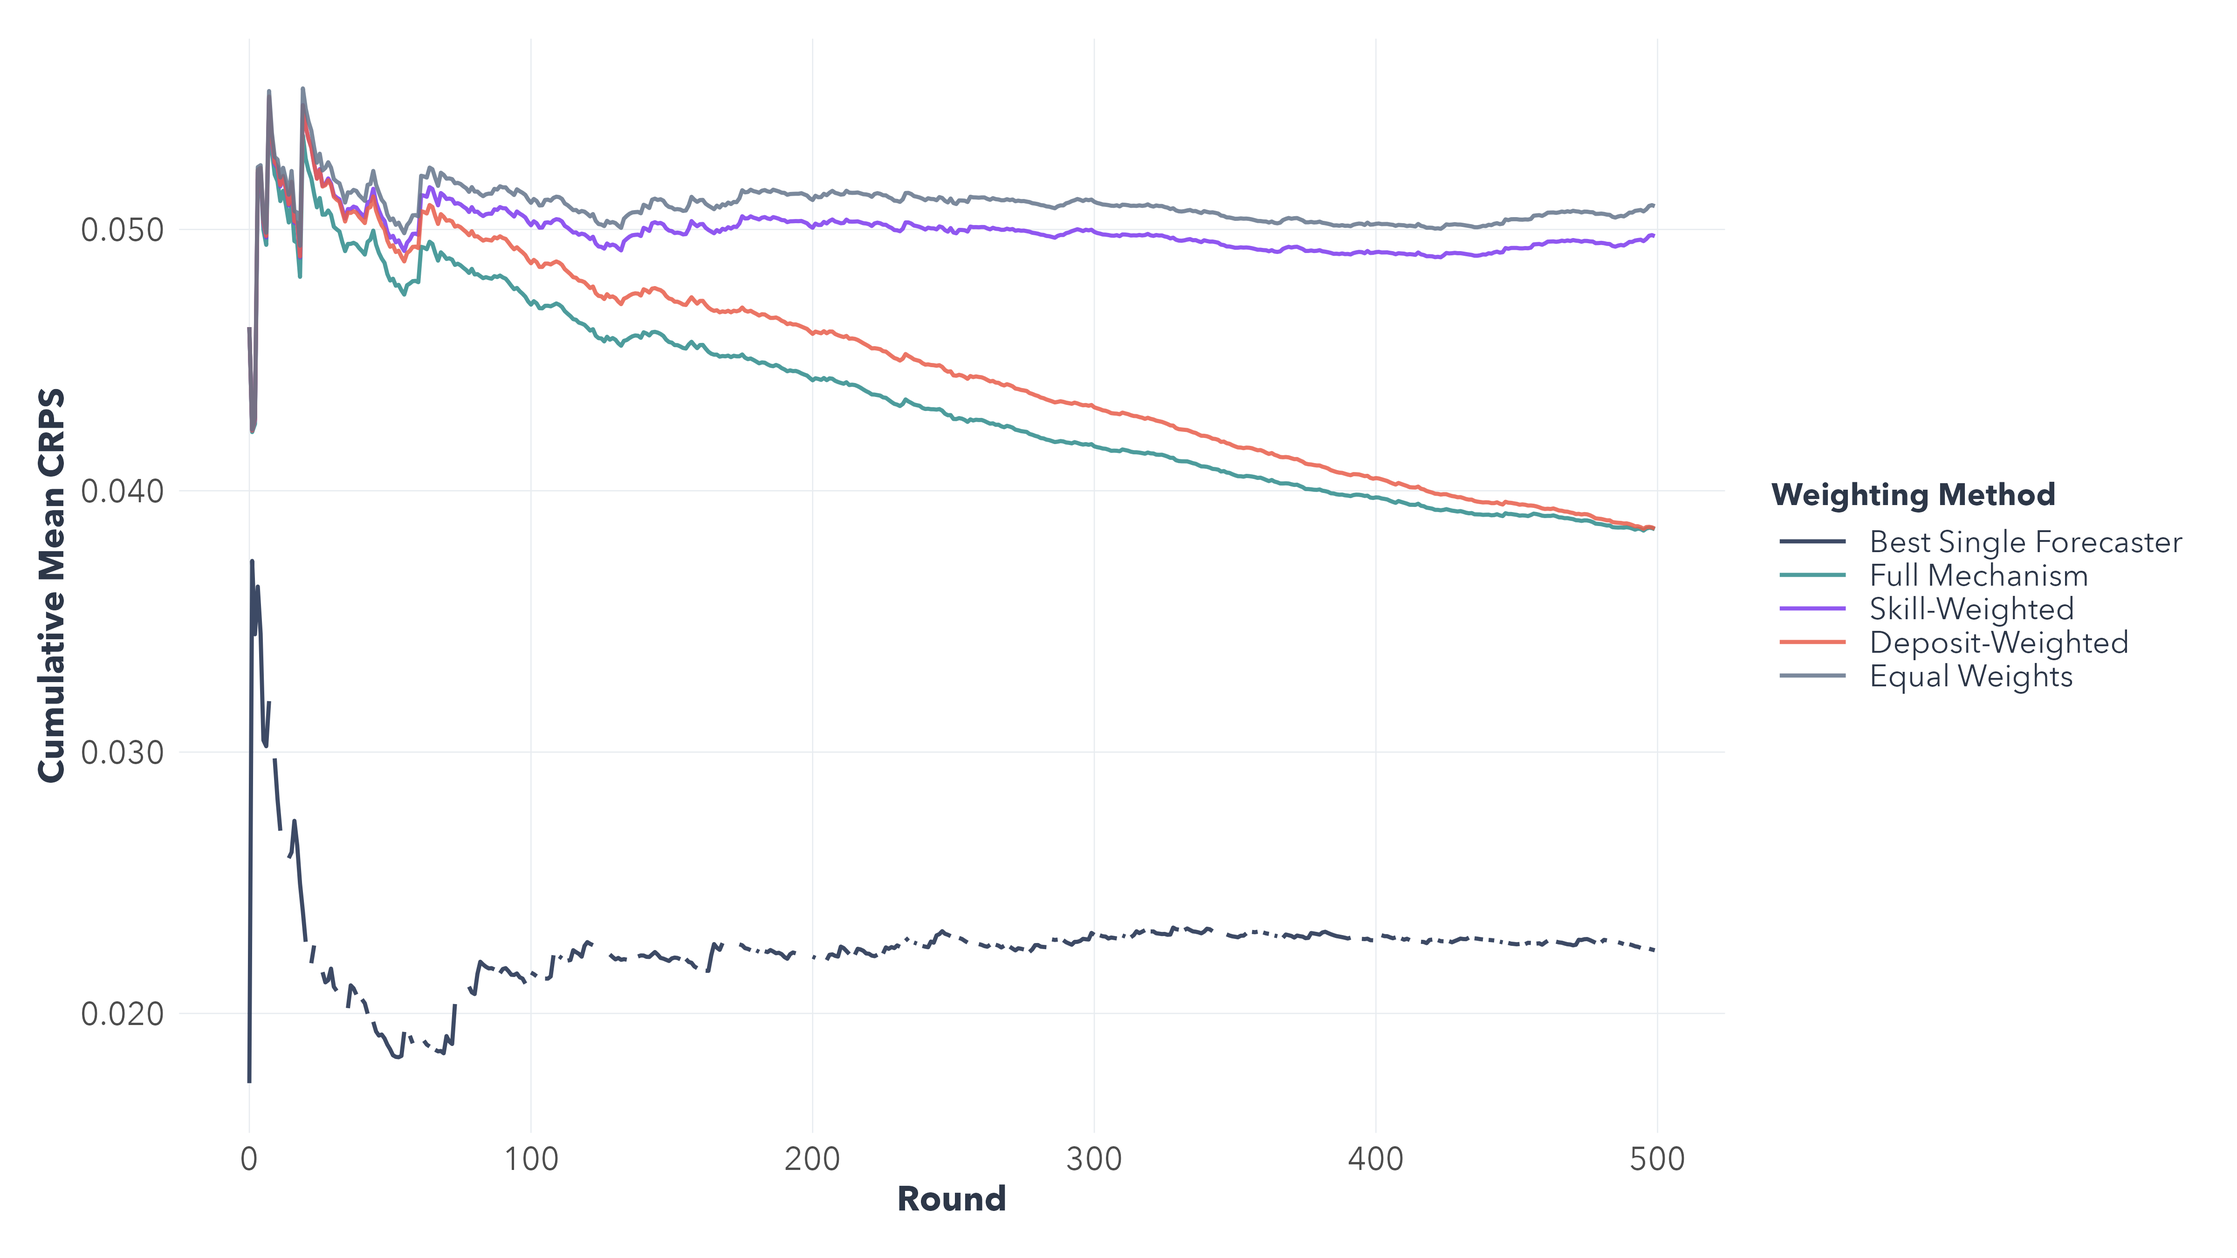
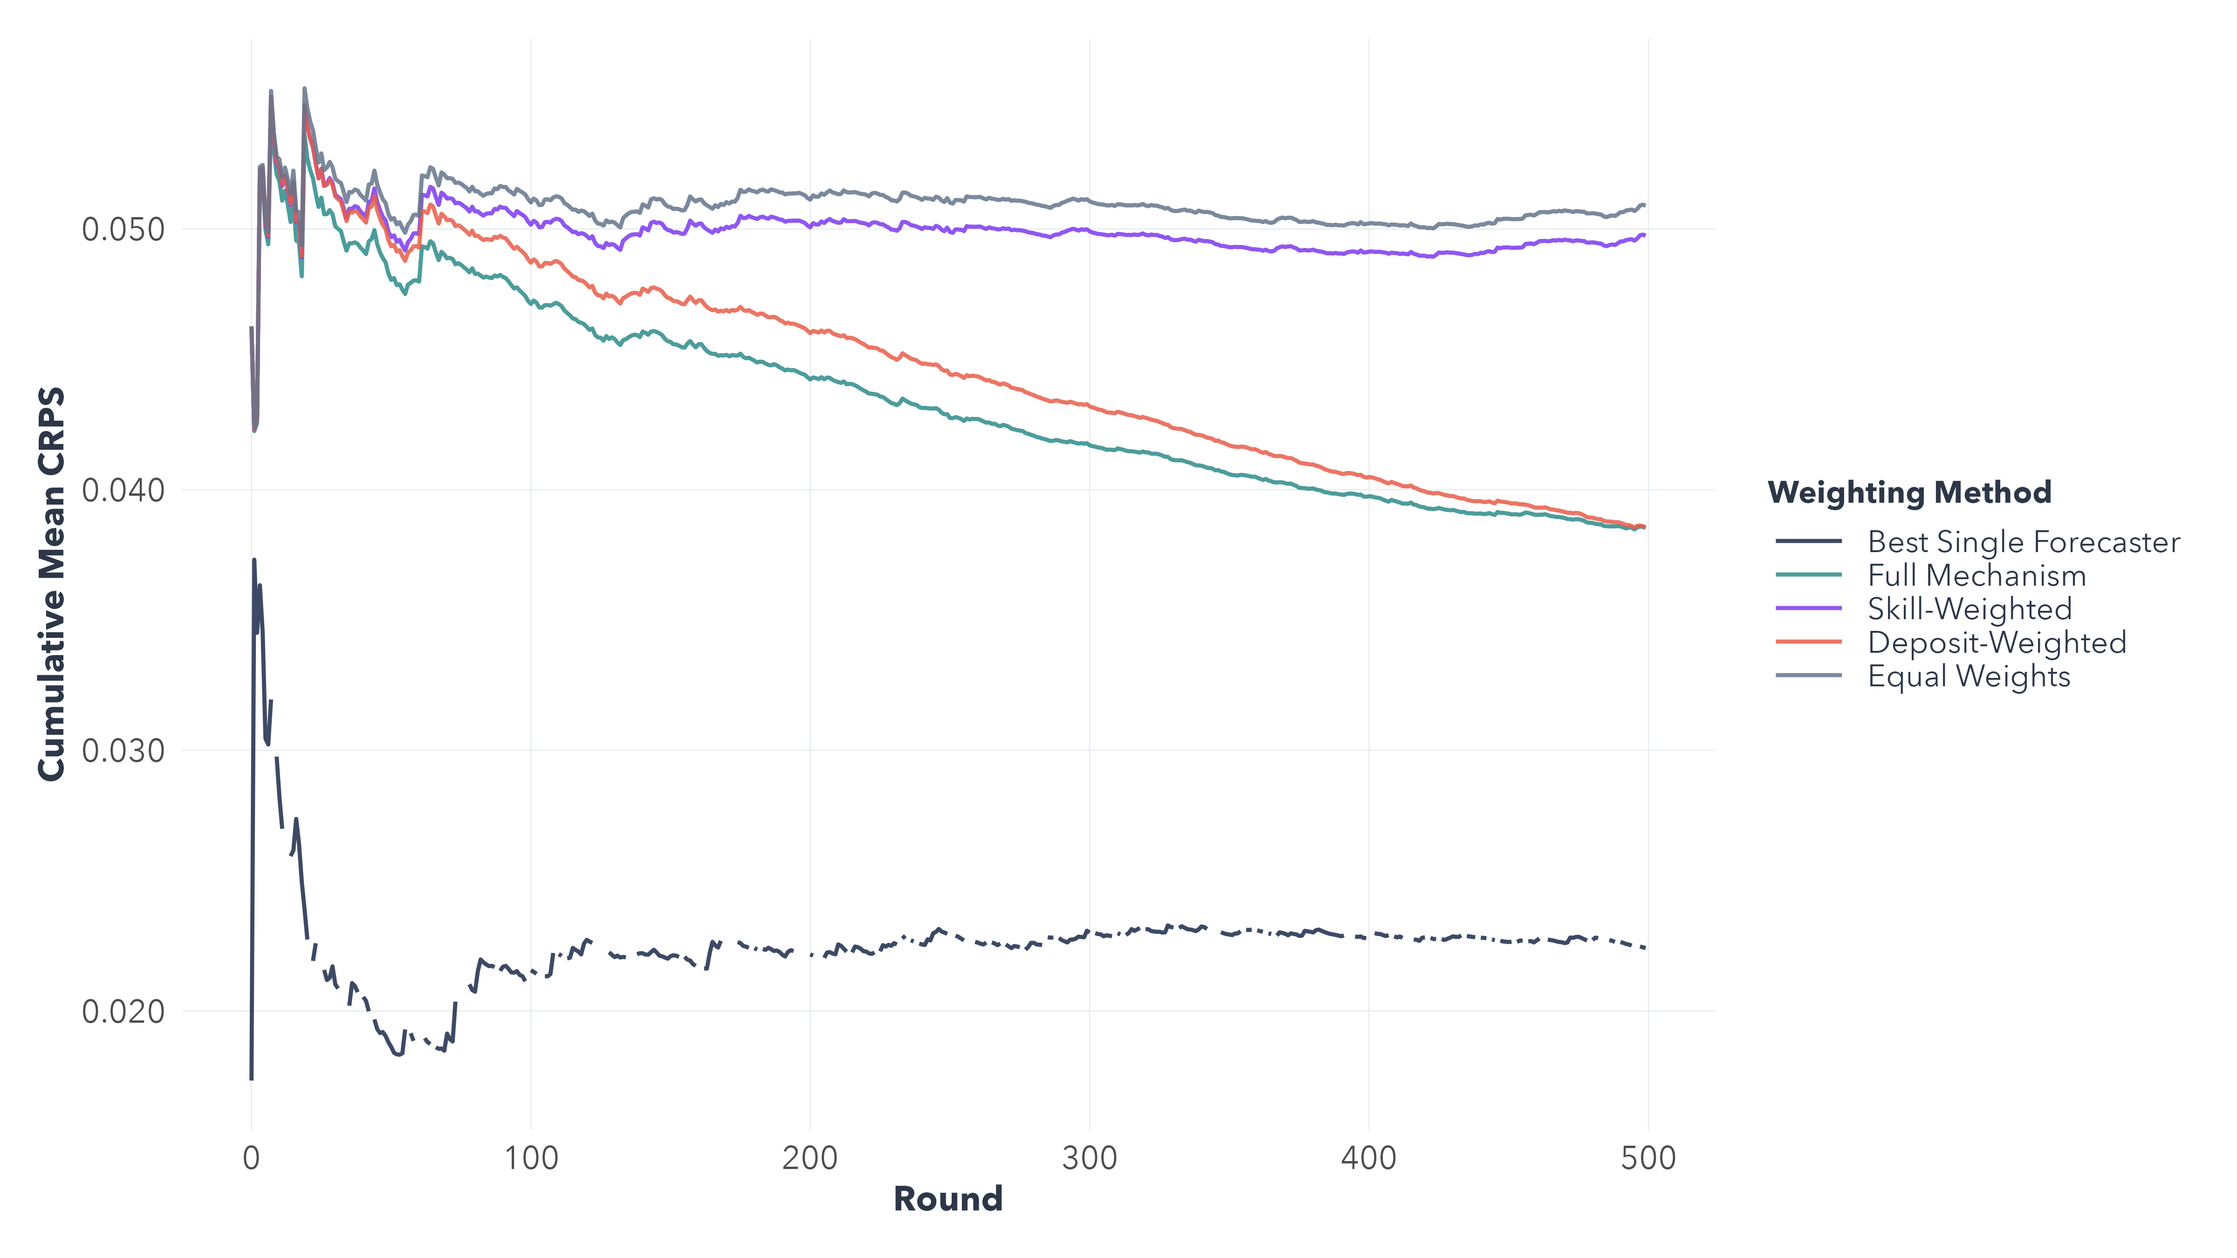
feat(presentation): slide fixes, larger plots, dashboard demo script
- Fix Models/Data slide number (9) and section alignment; remove orphan
  bullets from PresentationPage entries that only render components.
- Stop click-to-advance from capturing appendix interactions; accept
  standard slide props on AppendixSlide; align Q&A copy with project wording.
- Single source for main deck count (MAIN_DECK_SLIDE_COUNT); use in
  SlideShell, ContributionSlide, MechanismPipelineSlide, PresentationPage.
- Larger slide chart ticks (ContributionsChartSlide) and typography
  tokens; larger ggplot theme (theme_thesis) and regenerated PNGs.
- Dashboard readability: lab AXIS_TICK + tooltip, MetricCard labels,
  ForecastQualityChart and DeltaBarChart axis/label sizes.
- SCRIPT: add live dashboard Demo section after closing; appendix Q1 wording.

Made-with: Cursor

diff --git a/dashboard/src/pages/PresentationPage.tsx b/dashboard/src/pages/PresentationPage.tsx
@@ -1,6 +1,6 @@
 import { useState, useEffect, useCallback } from 'react';
 import PasswordGate from '@/components/slides/PasswordGate';
-import { PALETTE, TYPOGRAPHY, DARK_GRADIENT, getSectionForSlide, SECTION_BAR_HEIGHT } from '@/components/slides/shared/presentationConstants';
+import { PALETTE, TYPOGRAPHY, DARK_GRADIENT, getSectionForSlide, SECTION_BAR_HEIGHT, MAIN_DECK_SLIDE_COUNT } from '@/components/slides/shared/presentationConstants';
 import { formatBulletText } from '@/components/slides/shared/formatBulletText';
 import TheoryFlowSlide from '@/components/slides/TheoryFlowSlide';
 import MarketFlowSlide from '@/components/slides/MarketFlowSlide';
@@ -27,7 +27,7 @@ import TitleSlide from '@/components/slides/TitleSlide';
 
 const C = PALETTE;
 const FONT_FAMILY = TYPOGRAPHY.fontFamily;
-const TOTAL_SLIDES = 16;
+const TOTAL_SLIDES = MAIN_DECK_SLIDE_COUNT;
 const BASE = import.meta.env.BASE_URL;
 
 /* ─── Slide data ─────────────────────────────────────────────── */
@@ -138,10 +138,6 @@ const SLIDES: SlideData[] = [
     id: 'mechanism',
     type: 'content',
     title: 'Mechanism: Round-by-Round',
-    bullets: [
-      '▸ Core pipeline: submit → skill gate → aggregate → settle → update',
-      '▸ Same effective wager controls weight and exposure',
-    ],
     component: MechanismPipelineSlide,
     slideNumber: 7,
   },
@@ -182,15 +178,6 @@ const SLIDES: SlideData[] = [
     id: 'guarantees',
     type: 'content',
     title: 'Mechanism Guarantees',
-    bullets: [
-      '▸ The mechanism satisfies formal guarantees to machine precision',
-      '▸ Budget balance: gap < 10⁻¹³ — self-financed to numerical tolerance',
-      '▸ Mean profit ≈ 0 — pure redistribution, no subsidy or tax',
-      '▸ Sybil invariance: identical reports yield identical total profit',
-      '▸ Noise-skill correlation: r = −0.98 — higher noise maps to lower skill',
-      '',
-      '→ These are not approximate claims — verified to machine precision',
-    ],
     component: CorrectnessSlide,
     slideNumber: 11,
   },
@@ -207,18 +194,10 @@ const SLIDES: SlideData[] = [
     id: 'real-data',
     type: 'content',
     title: 'Real Data: Elia Wind + Electricity',
-    bullets: [
-      '▸ Elia wind: 44% CRPS reduction relative to equal weights',
-      '▸ Naive ranks highest — wind is strongly autocorrelated',
-      '▸ ML models (ARIMA, XGBoost, MLP) lag — over-spread quantiles',
-      '▸ Electricity: ~8% reduction (forecasters more similar)',
-      '',
-      '→ Conditional improvement — gains scale with forecaster heterogeneity',
-    ],
     component: ContributionsChartSlide,
     slideNumber: 13,
   },
-  /* 14 — Head-to-Head vs Raja & Vitali */
+  /* 14 — Benchmark comparison vs prior work */
   {
     id: 'baseline-comparison',
     type: 'content',
@@ -535,7 +514,20 @@ function SectionSlideView({ slide }: { slide: SlideData }) {
 function ContentSlideView({ slide }: { slide: SlideData }) {
   if (slide.component) {
     const Comp = slide.component;
-    return <Comp slide={slide} palette={PALETTE} fontFamily={FONT_FAMILY} />;
+    const inner = <Comp slide={slide} palette={PALETTE} fontFamily={FONT_FAMILY} />;
+    /* Appendix is interactive (scroll, tabs); stop click-to-advance from swallowing it */
+    if (slide.id === 'appendix') {
+      return (
+        <div
+          style={{ width: '100%', height: '100%', position: 'relative' }}
+          onClick={(e) => e.stopPropagation()}
+          onPointerDown={(e) => e.stopPropagation()}
+        >
+          {inner}
+        </div>
+      );
+    }
+    return inner;
   }
   return (
     <div

diff --git a/dashboard/src/components/slides/AppendixSlide.tsx b/dashboard/src/components/slides/AppendixSlide.tsx
@@ -14,13 +14,13 @@ const QA_ITEMS: QAItem[] = [
     question:
       "Why not just use Vitali & Pinson's approach? It has lower CRPS.",
     answer:
-      "Vitali's OGD achieves lower CRPS (−65 % wind) but uses Shapley settlement (not self-financed) and relative weights on a simplex. Our mechanism preserves Lambert's 7 formal properties including budget balance and sybilproofness, and uses absolute skill signals. The trade-off is quantified: we pay ~21 pp in CRPS for self-financing + absolute skill.",
+      "Vitali & Pinson's OGD achieves lower CRPS (−65 % wind) but uses Shapley settlement (not self-financed) and relative weights on a simplex. This project's mechanism preserves Lambert's seven formal properties, including budget balance and sybilproofness, and uses absolute skill signals. The trade-off is quantified: roughly 21 percentage points of CRPS on wind relative to OGD, in exchange for self-financing and absolute skill.",
   },
   {
     question:
       'Why does the best single forecaster (Naive) still beat the aggregate?',
     answer:
-      'Wind power is highly autocorrelated, making Naive persistence exceptionally strong. The mechanism improves the aggregate substantially (−44 % vs equal weights) but the ceiling is set by the best individual. This is a known limitation of linear opinion pools — future work could explore nonlinear combination methods.',
+      'Wind power is highly autocorrelated, making Naive persistence exceptionally strong. The mechanism improves the aggregate substantially (−44 % relative to equal weights) but the ceiling is set by the best individual. This is a known limitation of linear opinion pools — future work could explore nonlinear combination methods.',
   },
   {
     question:
@@ -199,8 +199,13 @@ function TabButton({
 /**
  * Appendix slide — backup material for Q&A.
  * No slide number, no section bar. Uses SlideShell without slideNumber.
+ * Props are passed by PresentationPage for consistency with other slides; content is static.
  */
-export default function AppendixSlide() {
+export default function AppendixSlide(_props: {
+  slide?: unknown;
+  palette?: unknown;
+  fontFamily?: string;
+}) {
   const [tab, setTab] = useState<AppendixTab>('qa');
 
   return (

diff --git a/dashboard/src/components/charts/ForecastQualityChart.tsx b/dashboard/src/components/charts/ForecastQualityChart.tsx
@@ -61,18 +61,18 @@ export default function ForecastQualityChart({ data }: Props) {
           <CartesianGrid strokeDasharray="3 3" stroke="#e2e8f0" />
           <XAxis
             dataKey="t"
-            tick={{ fontSize: 12 }}
+            tick={{ fontSize: 14 }}
             stroke="#94a3b8"
             domain={[zoom.state.left, zoom.state.right]}
-            label={{ value: 'Round', position: 'insideBottom', offset: -2, fontSize: 12 }}
+            label={{ value: 'Round', position: 'insideBottom', offset: -2, fontSize: 14 }}
           />
-          <YAxis tick={{ fontSize: 12 }} stroke="#94a3b8" label={{ value: 'CRPS', angle: -90, position: 'insideLeft', fontSize: 11, fill: '#64748b' }} />
+          <YAxis tick={{ fontSize: 14 }} stroke="#94a3b8" label={{ value: 'CRPS', angle: -90, position: 'insideLeft', fontSize: 13, fill: '#64748b' }} />
           <Tooltip
-            contentStyle={{ fontSize: 12, borderRadius: 8, border: '1px solid #e2e8f0' }}
+            contentStyle={{ fontSize: 13, borderRadius: 8, border: '1px solid #e2e8f0' }}
             formatter={(value: unknown, name: unknown) => [typeof value === 'number' ? value.toFixed(5) : String(value ?? ''), metricLabel(String(name ?? ''))]}
           />
           <Legend
-            wrapperStyle={{ fontSize: 11, cursor: 'pointer' }}
+            wrapperStyle={{ fontSize: 13, cursor: 'pointer' }}
             formatter={(v: string) => metricLabel(v)}
             onClick={(e) => {
               if (e?.dataKey) toggleSeries(String(e.dataKey));

diff --git a/dashboard/src/components/slides/MechanismPipelineSlide.tsx b/dashboard/src/components/slides/MechanismPipelineSlide.tsx
@@ -1,6 +1,6 @@
 import katex from 'katex';
 import 'katex/dist/katex.min.css';
-import { PALETTE, TYPOGRAPHY, getSectionForSlide, SECTION_BAR_HEIGHT } from './shared/presentationConstants';
+import { PALETTE, TYPOGRAPHY, getSectionForSlide, SECTION_BAR_HEIGHT, MAIN_DECK_SLIDE_COUNT } from './shared/presentationConstants';
 
 /**
  * Slide 7: Mechanism Round-by-Round — horizontal pipeline with
@@ -195,7 +195,9 @@ export default function MechanismPipelineSlide() {
       {/* Section bar */}
       <div style={{ position: 'absolute', top: 0, left: 0, right: 0, height: SECTION_BAR_HEIGHT, background: section.colour }} />
       {/* Slide number */}
-      <div style={{ position: 'absolute', top: 16, right: 24, fontSize: '0.8rem', color: PALETTE.slate }}>7 / 16</div>
+      <div style={{ position: 'absolute', top: 16, right: 24, fontSize: '0.8rem', color: PALETTE.slate }}>
+        {`7 / ${MAIN_DECK_SLIDE_COUNT}`}
+      </div>
 
       {/* Title */}
       <div style={{ flexShrink: 0, marginBottom: 20 }}>
@@ -205,7 +207,7 @@ export default function MechanismPipelineSlide() {
         <h2 style={{ fontSize: '3.2rem', fontWeight: 700, color: PALETTE.navy, lineHeight: 1.15, margin: 0 }}>
           Mechanism: Round-by-Round
         </h2>
-        <div style={{ width: 60, height: 4, background: PALETTE.teal, borderRadius: 2, marginTop: 14 }} />
+        <div style={{ width: 64, height: 3, background: PALETTE.teal, borderRadius: 2, marginTop: 12, opacity: 0.9 }} />
       </div>
 
       {/* Steps */}

diff --git a/dashboard/src/components/slides/ContributionSlide.tsx b/dashboard/src/components/slides/ContributionSlide.tsx
@@ -1,6 +1,6 @@
 import katex from 'katex';
 import 'katex/dist/katex.min.css';
-import { PALETTE, TYPOGRAPHY, DARK_GRADIENT, getSectionForSlide, SECTION_BAR_HEIGHT } from './shared/presentationConstants';
+import { PALETTE, TYPOGRAPHY, DARK_GRADIENT, getSectionForSlide, SECTION_BAR_HEIGHT, MAIN_DECK_SLIDE_COUNT } from './shared/presentationConstants';
 
 /**
  * Slide 6: My Contribution — dark background with KaTeX equation
@@ -35,7 +35,9 @@ export default function ContributionSlide() {
       {/* Section bar */}
       <div style={{ position: 'absolute', top: 0, left: 0, right: 0, height: SECTION_BAR_HEIGHT, background: section.colour }} />
       {/* Slide number */}
-      <div style={{ position: 'absolute', top: 16, right: 24, fontSize: '0.8rem', color: PALETTE.darkText }}>6 / 16</div>
+      <div style={{ position: 'absolute', top: 16, right: 24, fontSize: '0.8rem', color: PALETTE.darkText }}>
+        {`6 / ${MAIN_DECK_SLIDE_COUNT}`}
+      </div>
       {/* Section label */}
       <div style={{ fontSize: '0.75rem', fontWeight: 600, letterSpacing: '0.12em', textTransform: 'uppercase' as const, color: PALETTE.darkText, marginBottom: 16, opacity: 0.8 }}>
         PROBLEM

diff --git a/dashboard/src/components/slides/ContributionsChartSlide.tsx b/dashboard/src/components/slides/ContributionsChartSlide.tsx
@@ -245,7 +245,7 @@ export default function ContributionsChartSlide() {
                   offset: -12,
                   style: { fontSize: TYPOGRAPHY.chartAxis.fontSize, fontFamily: TYPOGRAPHY.fontFamily },
                 }}
-                tick={{ fontSize: 12, fontFamily: TYPOGRAPHY.fontFamily }}
+                tick={{ fontSize: 16, fontFamily: TYPOGRAPHY.fontFamily }}
                 stroke={PALETTE.slate}
               />
               <YAxis
@@ -257,7 +257,7 @@ export default function ContributionsChartSlide() {
                   offset: 4,
                   style: { fontSize: TYPOGRAPHY.chartAxis.fontSize, fontFamily: TYPOGRAPHY.fontFamily },
                 }}
-                tick={{ fontSize: 12, fontFamily: TYPOGRAPHY.fontFamily }}
+                tick={{ fontSize: 16, fontFamily: TYPOGRAPHY.fontFamily }}
                 stroke={PALETTE.slate}
               />
               <Tooltip

diff --git a/dashboard/src/components/lab/shared.ts b/dashboard/src/components/lab/shared.ts
@@ -11,7 +11,7 @@ export const CHART_MARGIN = { top: 8, right: 24, bottom: 4, left: 4 };
 /** Use when chart has X/Y axis labels so they are not clipped */
 export const CHART_MARGIN_LABELED = { top: 16, right: 24, bottom: 28, left: 52 };
 
-export const AXIS_TICK = { fontSize: 11, fill: '#64748b' };
+export const AXIS_TICK = { fontSize: 13, fill: '#64748b' };
 export const AXIS_STROKE = '#94a3b8';
 
 export const GRID_PROPS = { strokeDasharray: '3 3', stroke: '#e2e8f0', strokeOpacity: 0.4 } as const;
@@ -20,7 +20,7 @@ export const TOOLTIP_STYLE: CSSProperties = {
   borderRadius: 10,
   border: '1px solid #cbd5e1',
   boxShadow: '0 4px 16px -2px rgb(0 0 0 / 0.12)',
-  fontSize: 12,
+  fontSize: 13,
   padding: '10px 14px',
   background: 'rgba(255,255,255,0.98)',
   backdropFilter: 'blur(8px)',

diff --git a/dashboard/src/components/slides/shared/presentationConstants.ts b/dashboard/src/components/slides/shared/presentationConstants.ts
@@ -36,10 +36,13 @@ export const TYPOGRAPHY = {
   body: { fontSize: '1.8rem', lineHeight: 2.2, marginBottom: '16px' },
   bodySplit: { fontSize: '1.7rem', lineHeight: 2.0, marginBottom: '14px' },
   bodyContent: { fontSize: '1.9rem', lineHeight: 2.2, marginBottom: '16px' },
-  chartTitle: { fontSize: '22px', fontWeight: 700 },
-  chartAxis: { fontSize: '16px' },
-  chartDataLabel: { fontSize: '17px', fontWeight: 600 },
+  chartTitle: { fontSize: '24px', fontWeight: 700 },
+  chartAxis: { fontSize: '18px' },
+  chartDataLabel: { fontSize: '19px', fontWeight: 600 },
 } as const;
+
+/** Numbered slides in the main deck (excludes appendix backup slide). */
+export const MAIN_DECK_SLIDE_COUNT = 16 as const;
 
 /**
  * Emphasis style mappings for inline text highlighting within bullet items.

diff --git a/dashboard/src/components/slides/shared/SlideShell.tsx b/dashboard/src/components/slides/shared/SlideShell.tsx
@@ -1,4 +1,4 @@
-import { PALETTE, TYPOGRAPHY, DARK_GRADIENT, getSectionForSlide, SECTION_BAR_HEIGHT } from './presentationConstants';
+import { PALETTE, TYPOGRAPHY, DARK_GRADIENT, getSectionForSlide, SECTION_BAR_HEIGHT, MAIN_DECK_SLIDE_COUNT } from './presentationConstants';
 
 export interface SlideShellProps {
   title: string;
@@ -70,7 +70,7 @@ function SlideNumber({ slideNumber, totalSlides, dark }: { slideNumber?: number;
         zIndex: 10,
       }}
     >
-      {slideNumber} / {totalSlides || 16}
+      {slideNumber} / {totalSlides ?? MAIN_DECK_SLIDE_COUNT}
     </div>
   );
 }

diff --git a/dashboard/src/components/dashboard/MetricCard.tsx b/dashboard/src/components/dashboard/MetricCard.tsx
@@ -15,7 +15,7 @@ export default function MetricCard({ label, value, subtitle, accent }: MetricCar
       transition={{ duration: 0.25 }}
       className="bg-white border border-slate-200 rounded-xl px-4 py-3 min-w-0"
     >
-      <p className="text-[10px] font-semibold uppercase tracking-wider text-slate-400 truncate">{label}</p>
+      <p className="text-xs font-semibold uppercase tracking-wider text-slate-500 truncate">{label}</p>
       <p className={`text-xl font-semibold mt-1 tabular-nums ${accent ? 'text-blue-600' : 'text-slate-900'}`}>
         {value}
       </p>

diff --git a/dashboard/src/components/slides/ModelsDataOverviewSlide.tsx b/dashboard/src/components/slides/ModelsDataOverviewSlide.tsx
@@ -32,7 +32,7 @@ const ELIA_DATASETS = [
 ];
 
 /**
- * Slide 8 — Models, Data, and Synthetic Setup.
+ * Slide 9 — Models, Data, and Synthetic Setup.
  *
  * Three sections:
  *  1. Compact 7-model grid (name + type badge + one-line description)
@@ -41,7 +41,7 @@ const ELIA_DATASETS = [
  */
 export default function ModelsDataOverviewSlide() {
   return (
-    <SlideShell title="Models, Data, and Synthetic Setup" slideNumber={8}>
+    <SlideShell title="Models, Data, and Synthetic Setup" slideNumber={9}>
       <div
         style={{
           flex: 1,

diff --git a/dashboard/src/components/charts/DeltaBarChart.tsx b/dashboard/src/components/charts/DeltaBarChart.tsx
@@ -195,7 +195,7 @@ export default function DeltaBarChart({
               value: metricLabel,
               position: 'insideBottom',
               offset: -2,
-              fontSize: 10,
+              fontSize: 13,
               fill: '#94a3b8',
             }}
           />
@@ -213,7 +213,7 @@ export default function DeltaBarChart({
             label={{
               value: baselineLabel,
               position: 'top',
-              fontSize: 9,
+              fontSize: 12,
               fill: '#94a3b8',
             }}
           />
